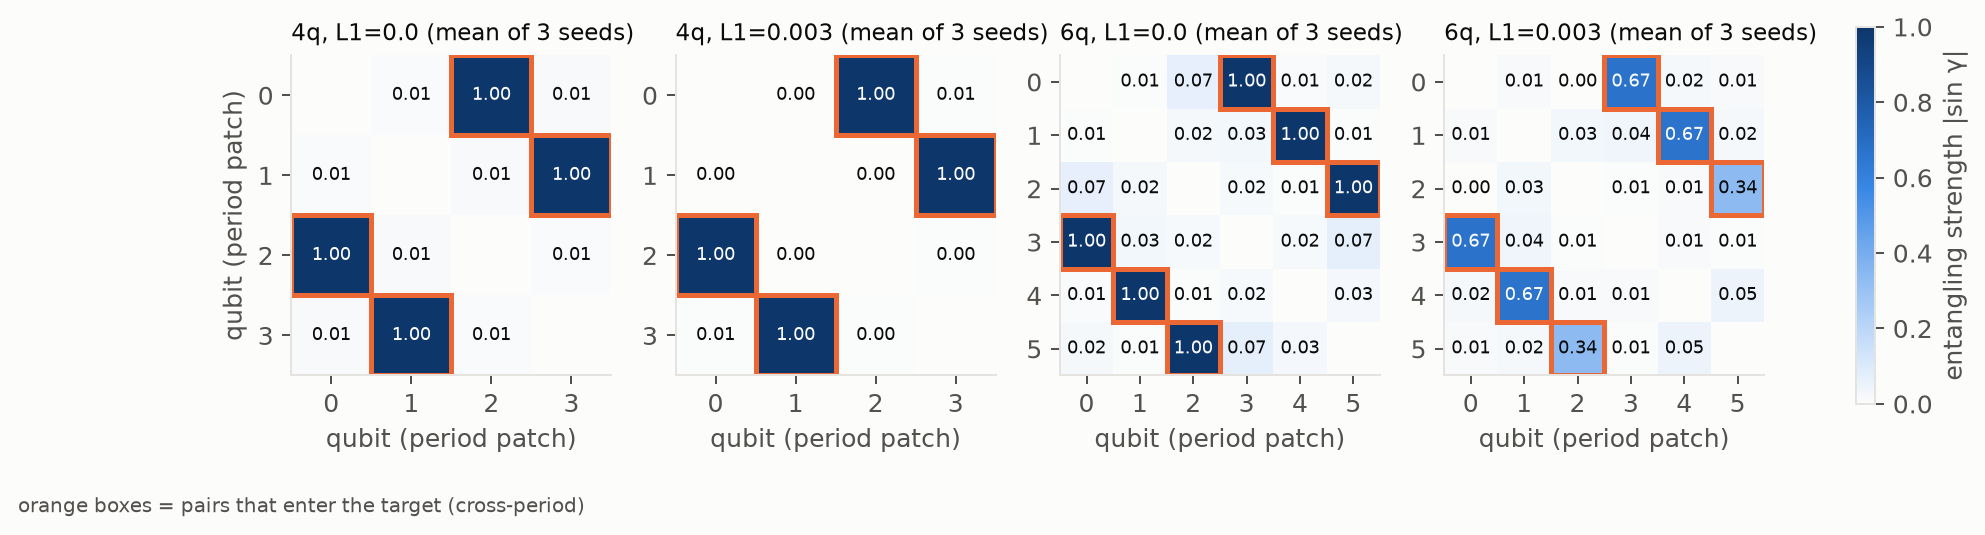
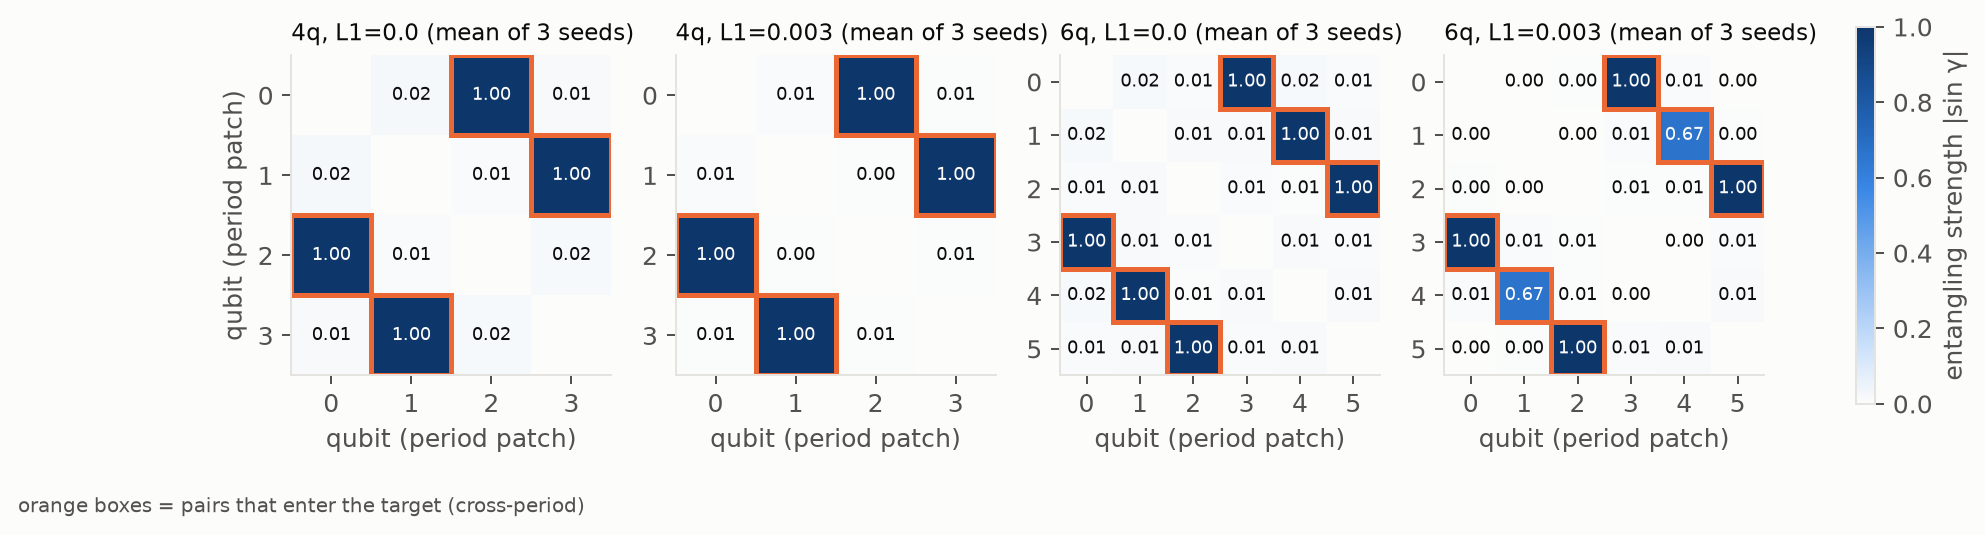
Learned-topology experiment: rerun on the shared encoder, update results and findings

diff --git a/docs/results_module_a.md b/docs/results_module_a.md
@@ -9,20 +9,20 @@ Target `y = A1·A2·cos(φ1 − φ2) + η`. Test MSE, mean ± std over 3 seeds; 
 | model | qubits | 2q gates | meas. settings | n=64 | n=256 | n=1024 | n=4096 |
 |---|---|---|---|---|---|---|---|
 | Fixed hybrid circuit + ridge | 2 | 0 | 9 | 0.0008 ± 0.0000 | 0.0006 ± 0.0000 | 0.0006 ± 0.0000 | 0.0006 ± 0.0000 |
-| Explicit interaction (ridge) | – | – | – | 0.0007 ± 0.0001 | 0.0006 ± 0.0000 | 0.0006 ± 0.0000 | 0.0006 ± 0.0000 |
+| Explicit interaction (ridge) | – | – | – | 0.0007 ± 0.0000 | 0.0006 ± 0.0000 | 0.0006 ± 0.0000 | 0.0006 ± 0.0000 |
 | Quantum hybrid / none / D=1 / pauli2 | 2 | 0 | 9 | 0.0007 ± 0.0000 | 0.0006 ± 0.0000 | 0.0006 ± 0.0000 | 0.0006 ± 0.0000 |
-| Quantum phase circuit + classical A·A products / all_to_all / D=2 / z | 2 | 2 | 1 | 0.0007 ± 0.0000 | 0.0006 ± 0.0000 | 0.0006 ± 0.0000 | 0.0006 ± 0.0000 |
+| Quantum phase circuit + classical A·A products / all_to_all / D=2 / z | 2 | 2 | 1 | 0.0007 ± 0.0001 | 0.0006 ± 0.0000 | 0.0006 ± 0.0000 | 0.0006 ± 0.0000 |
 | Quantum hybrid / all_to_all / D=1 / z | 2 | 1 | 1 | 0.0006 ± 0.0000 | 0.0006 ± 0.0000 | 0.0006 ± 0.0000 | 0.0006 ± 0.0000 |
-| Quantum angle / all_to_all / D=2 / z | 4 | 12 | 1 | 0.0019 ± 0.0001 | 0.0010 ± 0.0000 | 0.0009 ± 0.0001 | 0.0006 ± 0.0001 |
-| MLP on Fourier (A, cos φ, sin φ) | – | – | – | 0.0223 ± 0.0037 | 0.0033 ± 0.0001 | 0.0019 ± 0.0006 | 0.0007 ± 0.0000 |
-| MLP on raw (A, φ) | – | – | – | 0.0149 ± 0.0028 | 0.0051 ± 0.0005 | 0.0013 ± 0.0003 | 0.0007 ± 0.0001 |
-| MLP + gated quantum fusion | 2 | 2 | 1 | 0.0147 ± 0.0005 | 0.0030 ± 0.0006 | 0.0011 ± 0.0002 | 0.0007 ± 0.0000 |
-| Quantum angle / all_to_all / D=1 / z | 4 | 6 | 1 | 0.0018 ± 0.0002 | 0.0016 ± 0.0001 | 0.0016 ± 0.0001 | 0.0016 ± 0.0001 |
-| Quantum hybrid / all_to_all / D=2 / z | 2 | 2 | 1 | 0.0226 ± 0.0013 | 0.0194 ± 0.0005 | 0.0182 ± 0.0005 | 0.0173 ± 0.0007 |
-| Quantum hybrid / none / D=2 / pauli2 | 2 | 0 | 9 | 0.0303 ± 0.0024 | 0.0235 ± 0.0008 | 0.0239 ± 0.0013 | 0.0250 ± 0.0009 |
-| Quantum phase circuit + classical A·A products / none / D=2 / pauli2 | 2 | 0 | 9 | 0.0509 ± 0.0009 | 0.0484 ± 0.0037 | 0.0474 ± 0.0018 | 0.0443 ± 0.0022 |
-| Quantum angle / none / D=2 / pauli2 | 4 | 0 | 21 | 0.0701 ± 0.0083 | 0.0586 ± 0.0031 | 0.0571 ± 0.0007 | 0.0557 ± 0.0018 |
-| Param-matched MLP | – | – | – | 0.0785 ± 0.0088 | 0.0609 ± 0.0007 | 0.0614 ± 0.0019 | 0.0604 ± 0.0021 |
+| MLP on raw (A, φ) | – | – | – | 0.0161 ± 0.0027 | 0.0049 ± 0.0007 | 0.0010 ± 0.0001 | 0.0006 ± 0.0000 |
+| MLP on Fourier (A, cos φ, sin φ) | – | – | – | 0.0153 ± 0.0012 | 0.0038 ± 0.0004 | 0.0017 ± 0.0001 | 0.0007 ± 0.0000 |
+| MLP + gated quantum fusion | 2 | 2 | 1 | 0.0135 ± 0.0036 | 0.0028 ± 0.0001 | 0.0012 ± 0.0001 | 0.0008 ± 0.0001 |
+| Quantum angle / all_to_all / D=2 / z | 4 | 12 | 1 | 0.0027 ± 0.0005 | 0.0011 ± 0.0002 | 0.0006 ± 0.0000 | 0.0008 ± 0.0003 |
+| Quantum angle / all_to_all / D=1 / z | 4 | 6 | 1 | 0.0040 ± 0.0004 | 0.0034 ± 0.0005 | 0.0030 ± 0.0002 | 0.0028 ± 0.0002 |
+| Quantum hybrid / all_to_all / D=2 / z | 2 | 2 | 1 | 0.0331 ± 0.0028 | 0.0242 ± 0.0011 | 0.0225 ± 0.0002 | 0.0201 ± 0.0011 |
+| Quantum hybrid / none / D=2 / pauli2 | 2 | 0 | 9 | 0.0431 ± 0.0051 | 0.0318 ± 0.0019 | 0.0292 ± 0.0017 | 0.0295 ± 0.0005 |
+| Quantum phase circuit + classical A·A products / none / D=2 / pauli2 | 2 | 0 | 9 | 0.0513 ± 0.0025 | 0.0458 ± 0.0022 | 0.0472 ± 0.0027 | 0.0465 ± 0.0019 |
+| Quantum angle / none / D=2 / pauli2 | 4 | 0 | 21 | 0.0723 ± 0.0064 | 0.0608 ± 0.0025 | 0.0562 ± 0.0013 | 0.0561 ± 0.0019 |
+| Param-matched MLP | – | – | – | 0.0649 ± 0.0038 | 0.0589 ± 0.0014 | 0.0581 ± 0.0016 | 0.0597 ± 0.0036 |
 
 ![S1](figures/s1_encoding.png)
 
@@ -30,15 +30,15 @@ Target `y = A1·A2·cos(φ1 − φ2) + η`. Test MSE, mean ± std over 3 seeds; 
 
 | model | exact | 100 shots | 1000 shots | 10000 shots |
 |---|---|---|---|---|
-| Quantum angle / all_to_all / D=1 / z | 0.0016 | 0.0159 | 0.0029 | 0.0018 |
-| Quantum angle / all_to_all / D=2 / z | 0.0006 | 0.0417 | 0.0046 | 0.0011 |
-| Quantum angle / none / D=2 / pauli2 | 0.0557 | 0.0551 | 0.0521 | 0.0522 |
-| Quantum hybrid / all_to_all / D=1 / z | 0.0006 | 0.0119 | 0.0016 | 0.0007 |
-| Quantum hybrid / all_to_all / D=2 / z | 0.0173 | 0.0233 | 0.0173 | 0.0166 |
-| Quantum hybrid / none / D=1 / pauli2 | 0.0006 | 0.0385 | 0.0045 | 0.0009 |
-| Quantum hybrid / none / D=2 / pauli2 | 0.0250 | 0.0480 | 0.0257 | 0.0237 |
-| Quantum phase circuit + classical A·A products / all_to_all / D=2 / z | 0.0006 | 0.0030 | 0.0008 | 0.0006 |
-| Quantum phase circuit + classical A·A products / none / D=2 / pauli2 | 0.0443 | 0.0426 | 0.0410 | 0.0406 |
+| Quantum angle / all_to_all / D=1 / z | 0.0028 | 0.0131 | 0.0040 | 0.0029 |
+| Quantum angle / all_to_all / D=2 / z | 0.0008 | 0.0298 | 0.0039 | 0.0011 |
+| Quantum angle / none / D=2 / pauli2 | 0.0561 | 0.0587 | 0.0532 | 0.0527 |
+| Quantum hybrid / all_to_all / D=1 / z | 0.0006 | 0.0098 | 0.0015 | 0.0006 |
+| Quantum hybrid / all_to_all / D=2 / z | 0.0201 | 0.0276 | 0.0215 | 0.0210 |
+| Quantum hybrid / none / D=1 / pauli2 | 0.0006 | 0.0279 | 0.0032 | 0.0008 |
+| Quantum hybrid / none / D=2 / pauli2 | 0.0295 | 0.0486 | 0.0302 | 0.0287 |
+| Quantum phase circuit + classical A·A products / all_to_all / D=2 / z | 0.0006 | 0.0041 | 0.0009 | 0.0006 |
+| Quantum phase circuit + classical A·A products / none / D=2 / pauli2 | 0.0465 | 0.0455 | 0.0427 | 0.0425 |
 
 ## S2 — cross-period interaction (topology comparison)
 
@@ -52,41 +52,41 @@ One qubit per period patch, hybrid encoding, readout restricted to single-qubit 
 | Quantum hybrid / learned RZZ / D=1 / z / L1=0.0 | 1 | 6 | 9 | 1 | 0.0018 | 0.0018 ± 0.0000 |
 | Explicit interaction (ridge) | – | – | – | – | 0.0017 | 0.0018 ± 0.0000 |
 | Quantum hybrid / none / D=1 / pauli2 | 1 | 0 | 4 | 21 | 0.0017 | 0.0018 ± 0.0001 |
-| MLP on raw (A, φ) | – | – | – | – | 0.0025 | 0.0041 ± 0.0000 |
-| MLP on Fourier (A, cos φ, sin φ) | – | – | – | – | 0.0041 | 0.0091 ± 0.0006 |
-| Quantum hybrid / learned RZZ / D=1 / z / L1=0.003 | 1 | 6 | 9 | 1 | 0.0153 | 0.0170 ± 0.0216 |
-| Quantum hybrid / cross_period / D=2 / z | 2 | 4 | 9 | 1 | 0.0369 | 0.0399 ± 0.0016 |
-| Quantum hybrid / local / D=2 / z | 2 | 6 | 12 | 1 | 0.0782 | 0.0858 ± 0.0036 |
-| Quantum hybrid / all_to_all / D=2 / z | 2 | 12 | 16 | 1 | 0.0819 | 0.0878 ± 0.0059 |
-| Quantum hybrid / local / D=1 / z | 1 | 3 | 7 | 1 | 0.0832 | 0.0899 ± 0.0030 |
-| Quantum hybrid / all_to_all / D=1 / z | 1 | 6 | 9 | 1 | 0.0883 | 0.0919 ± 0.0020 |
-| Param-matched MLP | – | – | – | – | 0.1415 | 0.1447 ± 0.0032 |
-| Quantum hybrid / mismatched / D=2 / z | 2 | 4 | 9 | 1 | 0.1708 | 0.1697 ± 0.0042 |
-| Quantum hybrid / none / D=2 / z | 2 | 0 | 7 | 1 | 0.1700 | 0.1706 ± 0.0050 |
-| Quantum hybrid / none / D=1 / z | 1 | 0 | 4 | 1 | 0.1702 | 0.1709 ± 0.0050 |
-| Quantum hybrid / mismatched / D=1 / z | 1 | 2 | 5 | 1 | 0.1707 | 0.1710 ± 0.0053 |
+| MLP on raw (A, φ) | – | – | – | – | 0.0022 | 0.0043 ± 0.0003 |
+| MLP on Fourier (A, cos φ, sin φ) | – | – | – | – | 0.0045 | 0.0100 ± 0.0004 |
+| Quantum hybrid / learned RZZ / D=1 / z / L1=0.003 | 1 | 6 | 9 | 1 | 0.0286 | 0.0312 ± 0.0209 |
+| Quantum hybrid / cross_period / D=2 / z | 2 | 4 | 9 | 1 | 0.0370 | 0.0402 ± 0.0014 |
+| Quantum hybrid / all_to_all / D=2 / z | 2 | 12 | 16 | 1 | 0.0775 | 0.0838 ± 0.0059 |
+| Quantum hybrid / local / D=2 / z | 2 | 6 | 12 | 1 | 0.0777 | 0.0869 ± 0.0045 |
+| Quantum hybrid / local / D=1 / z | 1 | 3 | 7 | 1 | 0.0836 | 0.0906 ± 0.0025 |
+| Quantum hybrid / all_to_all / D=1 / z | 1 | 6 | 9 | 1 | 0.0930 | 0.0927 ± 0.0019 |
+| Param-matched MLP | – | – | – | – | 0.1405 | 0.1449 ± 0.0039 |
+| Quantum hybrid / none / D=2 / z | 2 | 0 | 7 | 1 | 0.1697 | 0.1700 ± 0.0047 |
+| Quantum hybrid / none / D=1 / z | 1 | 0 | 4 | 1 | 0.1701 | 0.1704 ± 0.0050 |
+| Quantum hybrid / mismatched / D=2 / z | 2 | 4 | 9 | 1 | 0.1694 | 0.1704 ± 0.0049 |
+| Quantum hybrid / mismatched / D=1 / z | 1 | 2 | 5 | 1 | 0.1706 | 0.1707 ± 0.0048 |
 
 ### 6q
 
 | model | depth | 2q gates | circuit depth | meas. settings | train MSE | test MSE |
 |---|---|---|---|---|---|---|
+| Quantum hybrid / learned RZZ / D=1 / z / L1=0.0 | 1 | 15 | 13 | 1 | 0.0024 | 0.0024 ± 0.0001 |
 | Quantum hybrid / cross_period / D=1 / z | 1 | 3 | 5 | 1 | 0.0025 | 0.0024 ± 0.0001 |
 | Explicit interaction (ridge) | – | – | – | – | 0.0023 | 0.0025 ± 0.0001 |
-| Quantum hybrid / none / D=1 / pauli2 | 1 | 0 | 4 | 33 | 0.0023 | 0.0026 ± 0.0001 |
-| Quantum hybrid / learned RZZ / D=1 / z / L1=0.0 | 1 | 15 | 13 | 1 | 0.0162 | 0.0175 ± 0.0211 |
-| MLP on raw (A, φ) | – | – | – | – | 0.0108 | 0.0256 ± 0.0056 |
-| MLP on Fourier (A, cos φ, sin φ) | – | – | – | – | 0.0081 | 0.0429 ± 0.0051 |
-| Quantum hybrid / cross_period / D=2 / z | 2 | 6 | 9 | 1 | 0.0573 | 0.0639 ± 0.0015 |
-| Quantum hybrid / learned RZZ / D=1 / z / L1=0.003 | 1 | 15 | 13 | 1 | 0.1162 | 0.1206 ± 0.0448 |
-| Quantum hybrid / all_to_all / D=2 / z | 2 | 30 | 22 | 1 | 0.1718 | 0.1960 ± 0.0087 |
-| Quantum hybrid / local / D=2 / z | 2 | 10 | 14 | 1 | 0.1807 | 0.1988 ± 0.0167 |
-| Quantum hybrid / all_to_all / D=1 / z | 1 | 15 | 13 | 1 | 0.1933 | 0.2001 ± 0.0187 |
-| Param-matched MLP | – | – | – | – | 0.2312 | 0.2377 ± 0.0082 |
-| Quantum hybrid / local / D=1 / z | 1 | 5 | 9 | 1 | 0.2578 | 0.2642 ± 0.0079 |
-| Quantum hybrid / mismatched / D=1 / z | 1 | 3 | 5 | 1 | 0.2600 | 0.2643 ± 0.0080 |
-| Quantum hybrid / none / D=1 / z | 1 | 0 | 4 | 1 | 0.2595 | 0.2647 ± 0.0077 |
-| Quantum hybrid / none / D=2 / z | 2 | 0 | 7 | 1 | 0.2589 | 0.2652 ± 0.0083 |
-| Quantum hybrid / mismatched / D=2 / z | 2 | 6 | 9 | 1 | 0.2610 | 0.2666 ± 0.0069 |
+| Quantum hybrid / none / D=1 / pauli2 | 1 | 0 | 4 | 33 | 0.0024 | 0.0027 ± 0.0001 |
+| MLP on raw (A, φ) | – | – | – | – | 0.0110 | 0.0285 ± 0.0035 |
+| Quantum hybrid / learned RZZ / D=1 / z / L1=0.003 | 1 | 15 | 13 | 1 | 0.0307 | 0.0305 ± 0.0397 |
+| MLP on Fourier (A, cos φ, sin φ) | – | – | – | – | 0.0100 | 0.0457 ± 0.0053 |
+| Quantum hybrid / cross_period / D=2 / z | 2 | 6 | 9 | 1 | 0.0549 | 0.0606 ± 0.0029 |
+| Quantum hybrid / all_to_all / D=1 / z | 1 | 15 | 13 | 1 | 0.1831 | 0.1876 ± 0.0067 |
+| Quantum hybrid / local / D=2 / z | 2 | 10 | 14 | 1 | 0.1704 | 0.1897 ± 0.0091 |
+| Quantum hybrid / all_to_all / D=2 / z | 2 | 30 | 22 | 1 | 0.1768 | 0.1940 ± 0.0187 |
+| Param-matched MLP | – | – | – | – | 0.2312 | 0.2396 ± 0.0082 |
+| Quantum hybrid / none / D=1 / z | 1 | 0 | 4 | 1 | 0.2592 | 0.2635 ± 0.0080 |
+| Quantum hybrid / mismatched / D=2 / z | 2 | 6 | 9 | 1 | 0.2584 | 0.2639 ± 0.0085 |
+| Quantum hybrid / mismatched / D=1 / z | 1 | 3 | 5 | 1 | 0.2607 | 0.2644 ± 0.0076 |
+| Quantum hybrid / none / D=2 / z | 2 | 0 | 7 | 1 | 0.2591 | 0.2646 ± 0.0091 |
+| Quantum hybrid / local / D=1 / z | 1 | 5 | 9 | 1 | 0.2611 | 0.2651 ± 0.0079 |
 
 ![S2](figures/s2_topology.png)
 
@@ -98,18 +98,18 @@ Every qubit pair gets a trainable RZZ(γ); entangling strength = |sin γ| (0 = o
 
 | setting | seed | test MSE | target share | strengths (pair: value) |
 |---|---|---|---|---|
-| 4q, L1=0.003 | 42 | 0.0475 | 0.98 | 01:0.01, 02:1.00, 03:0.02, 12:0.01, 13:1.00, 23:0.01 |
-| 4q, L1=0.003 | 43 | 0.0017 | 1.00 | 01:0.00, 02:1.00, 03:0.00, 12:0.00, 13:1.00, 23:0.00 |
-| 4q, L1=0.003 | 44 | 0.0018 | 1.00 | 01:0.00, 02:1.00, 03:0.00, 12:0.00, 13:1.00, 23:0.00 |
-| 4q, L1=0.0 | 42 | 0.0018 | 0.99 | 01:0.00, 02:1.00, 03:0.01, 12:0.01, 13:1.00, 23:0.00 |
-| 4q, L1=0.0 | 43 | 0.0017 | 0.96 | 01:0.02, 02:1.00, 03:0.03, 12:0.03, 13:1.00, 23:0.02 |
-| 4q, L1=0.0 | 44 | 0.0017 | 0.98 | 01:0.01, 02:1.00, 03:0.01, 12:0.01, 13:1.00, 23:0.01 |
-| 6q, L1=0.003 | 42 | 0.1838 | 0.77 | 01:0.01, 02:0.01, 03:0.01, 04:0.03, 05:0.01, 12:0.04, 13:0.00, 14:1.00, 15:0.07, 23:0.00, 24:0.00, 25:0.01, 34:0.03, 35:0.00, 45:0.09 |
-| 6q, L1=0.003 | 43 | 0.0869 | 0.90 | 01:0.01, 02:0.00, 03:1.00, 04:0.02, 05:0.01, 12:0.01, 13:0.07, 14:0.00, 15:0.00, 23:0.02, 24:0.03, 25:1.00, 34:0.01, 35:0.02, 45:0.03 |
-| 6q, L1=0.003 | 44 | 0.0909 | 0.93 | 01:0.02, 02:0.00, 03:1.00, 04:0.01, 05:0.01, 12:0.03, 13:0.04, 14:1.00, 15:0.00, 23:0.00, 24:0.00, 25:0.01, 34:0.00, 35:0.00, 45:0.03 |
-| 6q, L1=0.0 | 42 | 0.0026 | 0.92 | 01:0.02, 02:0.05, 03:1.00, 04:0.01, 05:0.04, 12:0.01, 13:0.01, 14:1.00, 15:0.01, 23:0.03, 24:0.01, 25:1.00, 34:0.01, 35:0.05, 45:0.01 |
-| 6q, L1=0.0 | 43 | 0.0024 | 0.93 | 01:0.00, 02:0.05, 03:1.00, 04:0.02, 05:0.01, 12:0.02, 13:0.02, 14:1.00, 15:0.00, 23:0.01, 24:0.00, 25:1.00, 34:0.00, 35:0.05, 45:0.02 |
-| 6q, L1=0.0 | 44 | 0.0473 | 0.87 | 01:0.00, 02:0.11, 03:1.00, 04:0.00, 05:0.01, 12:0.03, 13:0.06, 14:1.00, 15:0.01, 23:0.01, 24:0.01, 25:1.00, 34:0.04, 35:0.12, 45:0.04 |
+| 4q, L1=0.003 | 42 | 0.0476 | 0.97 | 01:0.01, 02:1.00, 03:0.02, 12:0.01, 13:1.00, 23:0.01 |
+| 4q, L1=0.003 | 43 | 0.0018 | 1.00 | 01:0.00, 02:1.00, 03:0.00, 12:0.00, 13:1.00, 23:0.00 |
+| 4q, L1=0.003 | 44 | 0.0442 | 0.99 | 01:0.01, 02:1.00, 03:0.00, 12:0.00, 13:1.00, 23:0.01 |
+| 4q, L1=0.0 | 42 | 0.0018 | 0.98 | 01:0.01, 02:1.00, 03:0.01, 12:0.01, 13:1.00, 23:0.01 |
+| 4q, L1=0.0 | 43 | 0.0017 | 0.99 | 01:0.01, 02:1.00, 03:0.01, 12:0.01, 13:1.00, 23:0.01 |
+| 4q, L1=0.0 | 44 | 0.0018 | 0.95 | 01:0.04, 02:1.00, 03:0.01, 12:0.01, 13:1.00, 23:0.04 |
+| 6q, L1=0.003 | 42 | 0.0026 | 1.00 | 01:0.00, 02:0.00, 03:1.00, 04:0.00, 05:0.00, 12:0.00, 13:0.00, 14:1.00, 15:0.00, 23:0.00, 24:0.00, 25:1.00, 34:0.00, 35:0.00, 45:0.00 |
+| 6q, L1=0.003 | 43 | 0.0866 | 0.92 | 01:0.00, 02:0.01, 03:1.00, 04:0.03, 05:0.00, 12:0.00, 13:0.03, 14:0.00, 15:0.01, 23:0.01, 24:0.02, 25:1.00, 34:0.00, 35:0.02, 45:0.04 |
+| 6q, L1=0.003 | 44 | 0.0023 | 1.00 | 01:0.00, 02:0.00, 03:1.00, 04:0.00, 05:0.00, 12:0.00, 13:0.00, 14:1.00, 15:0.00, 23:0.00, 24:0.00, 25:1.00, 34:0.00, 35:0.00, 45:0.00 |
+| 6q, L1=0.0 | 42 | 0.0026 | 0.96 | 01:0.01, 02:0.01, 03:1.00, 04:0.01, 05:0.02, 12:0.01, 13:0.01, 14:1.00, 15:0.01, 23:0.02, 24:0.01, 25:1.00, 34:0.01, 35:0.01, 45:0.00 |
+| 6q, L1=0.0 | 43 | 0.0024 | 0.94 | 01:0.03, 02:0.00, 03:1.00, 04:0.02, 05:0.00, 12:0.03, 13:0.02, 14:1.00, 15:0.01, 23:0.00, 24:0.01, 25:1.00, 34:0.02, 35:0.00, 45:0.03 |
+| 6q, L1=0.0 | 44 | 0.0024 | 0.95 | 01:0.02, 02:0.01, 03:1.00, 04:0.02, 05:0.02, 12:0.00, 13:0.02, 14:1.00, 15:0.01, 23:0.01, 24:0.00, 25:1.00, 34:0.02, 35:0.02, 45:0.00 |
 
 ![learned topology](figures/learned_topology.png)
 

diff --git a/docs/module_a_findings.md b/docs/module_a_findings.md
@@ -23,27 +23,27 @@ Each trained quantum model keeps the best of 5 random restarts, selected on vali
   - With 2 qubits and one re-uploading layer, it reaches the explicit-interaction oracle at every
     training size: 0.0006–0.0007, including n=64.
   - This holds for both readouts: Z readout with one CZ, and Pauli-2 readout with no CZ.
-  - Generic MLPs need about 4096 samples to get there. At n=64 they score 0.015 (raw) and
-    0.022 (Fourier), 20–30× worse.
+  - Generic MLPs need about 4096 samples to get there. At n=64 they score 0.016 (raw) and
+    0.015 (Fourier), about 25× worse.
 - **The gain comes from the feature map, not from training or from anything uniquely quantum.**
   - An untrained random hybrid circuit with a ridge readout is just as good.
   - The reason is analytic: ⟨X1X2⟩ + ⟨Y1Y2⟩ = sinθ1·sinθ2·cos(φ1 − φ2) exactly (unit test
     `test_hybrid_encoding_gives_target_analytically`).
   - A classical model given the same features ([A·cos φ, A·sin φ] and their products) matches it.
 - **Angle encoding works but costs more.** It needs 4 qubits and 12 CZ gates (D=2), and is
-  slower to learn: 0.0019 at n=64 and 0.0006 only at n=4096.
+  slower to learn: 0.0027 at n=64 and 0.0006–0.0011 at n≥256.
 - **More re-uploading is not better here.**
-  - With hybrid encoding, D=2 gives 0.017–0.030, against 0.0006 for D=1, even with restarts.
+  - With hybrid encoding, D=2 gives 0.020–0.033, against 0.0006 for D=1, even with restarts.
   - A two-layer circuit does not contain the one-layer function. The second data upload rotates
     a state that is already data-dependent.
 - **Restarts remove the seed sensitivity.**
   - Without restarts, the Z-readout + CZ models sometimes got stuck (0.015–0.03 on some seeds).
-  - With 5 restarts, the standard deviation across seeds is at most 0.0001 for every good
-    configuration.
+  - With 5 restarts, the standard deviation across seeds is at most 0.0001 for every hybrid
+    D=1 configuration.
 - **The phase-only encoding row is not an encoding comparison.** Its head is given classical
   A_i·A_j products, so it is labelled separately.
-- **Gated fusion with an MLP backbone helps the MLP only slightly.** At n=64 it scores 0.015
-  against 0.022 for the Fourier MLP. It stays far from the pure hybrid circuit (0.0006).
+- **Gated fusion with an MLP backbone helps the MLP only slightly.** At n=64 it scores 0.014
+  against 0.015–0.016 for the MLPs. It stays far from the pure hybrid circuit (0.0006).
 
 ## S2: cross-period interaction, `y = Σ A_k·A_{k+s}·cos(φ_k − φ_{k+s})`
 
@@ -53,16 +53,16 @@ restarts, selected on validation MSE.
 
 - **The cross-period topology learns the task on every seed.**
   - 4 qubits, D=1: 0.0017–0.0018 on all 3 seeds, equal to the explicit oracle (0.0018).
-  - 6 qubits, D=1: 0.0024, equal to the oracle (0.0025) and 10–18× better than the MLPs
-    (0.026 raw, 0.043 Fourier).
-  - Restarts fixed the seed that got stuck in the first run (0.048 → 0.0018).
+  - 6 qubits, D=1: 0.0024, equal to the oracle (0.0025) and 12–19× better than the MLPs
+    (0.029 raw, 0.046 Fourier).
+  - Restarts fixed the seed that gets stuck without them (0.090 → 0.0018).
 - **Structure matters, not gate count.**
   - The mismatched control has the same number of CZ gates as cross-period, but on the wrong
     pairs (0,1), (2,3), and so on.
   - It scores the same as no entanglement: 0.17 at 4 qubits and 0.26 at 6 qubits.
   - Local-chain and all-to-all topologies also fail at both depths.
 - **Entanglement and measurements can substitute for each other.** Without any CZ, a full
-  two-body Pauli readout also solves S2 (0.0018 at 4 qubits, 0.0026 at 6 qubits). The price is
+  two-body Pauli readout also solves S2 (0.0018 at 4 qubits, 0.0027 at 6 qubits). The price is
   21 or 33 measurement settings per prediction instead of 1.
 
 ## Learned topology: the circuit finds the cross-period edges by itself
@@ -71,14 +71,17 @@ Setup: every qubit pair gets a trainable RZZ(γ). Its entangling strength is |si
 strengths start small (|γ| ≤ 0.3), and the circuit is never told which pairs matter.
 
 - **Without any sparsity penalty (L1 = 0), every seed switches on exactly the target pairs.**
-  - 4 qubits: edges 0–2 and 1–3 go to strength 1.00. Every other edge stays at 0.03 or below.
+  - 4 qubits: edges 0–2 and 1–3 go to strength 1.00. Every other edge stays at 0.04 or below.
     Test MSE is 0.0017–0.0018 on all 3 seeds, equal to the hand-designed cross-period circuit.
   - 6 qubits: out of 15 candidate edges, 0–3, 1–4 and 2–5 go to 1.00. All others stay at
-    0.12 or below, and 87–93% of the total strength sits on the target pairs.
-  - At 6 qubits, 2 of 3 seeds reach the oracle (0.0024–0.0026). The third picks the right edges
-    but its other parameters do not converge (0.047).
-- **An L1 penalty of 0.003 is too strong at 6 qubits.** It switches off one or two of the needed
-  edges (0.087–0.18). At 4 qubits it is harmless. Use L1 = 0.
+    0.03 or below, and 94–96% of the total strength sits on the target pairs.
+  - At 6 qubits, all 3 seeds reach the oracle (0.0024–0.0026), the same as the hand-designed
+    cross-period circuit (0.0024).
+- **An L1 penalty of 0.003 does not help.**
+  - 6 qubits: 2 of 3 seeds keep exactly the 3 target edges and reach the oracle (0.0023–0.0026).
+    The third drops one needed edge (0.087).
+  - 4 qubits: every seed keeps the right edges, but 2 of 3 do not converge (0.044–0.048).
+  - Use L1 = 0.
 - **What this means:** the cross-period structure is *discovered from data*, not imposed. This
   answers the main objection to the S2 result.
 
@@ -86,13 +89,13 @@ strengths start small (|γ| ≤ 0.3), and the circuit is never told which pairs 
 
 | model | exact | 10 000 shots | 1000 shots | 100 shots |
 |---|---|---|---|---|
-| hybrid, D=1, Z readout + 1 CZ (2 qubits) | 0.0006 | 0.0007 | 0.0016 | 0.012 |
-| hybrid, D=1, Pauli-2, no CZ (9 settings) | 0.0006 | 0.0009 | 0.0045 | 0.039 |
-| angle, D=2, Z readout + 12 CZ (4 qubits) | 0.0006 | 0.0011 | 0.0046 | 0.042 |
+| hybrid, D=1, Z readout + 1 CZ (2 qubits) | 0.0006 | 0.0006 | 0.0015 | 0.0098 |
+| hybrid, D=1, Pauli-2, no CZ (9 settings) | 0.0006 | 0.0008 | 0.0032 | 0.028 |
+| angle, D=2, Z readout + 12 CZ (4 qubits) | 0.0008 | 0.0011 | 0.0039 | 0.030 |
 
 - The single-setting Z-readout circuit is the most shot-efficient.
 - The Pauli-2 readout runs each of its 9 settings with the full shot count, so it uses 9× the
-  shots. It is still about 3× noisier at 1000 shots, because the head sums 15 noisy estimates.
+  shots. It is still about 2× noisier at 1000 shots, because the head sums 15 noisy estimates.
 
 ## Honest limits
 
